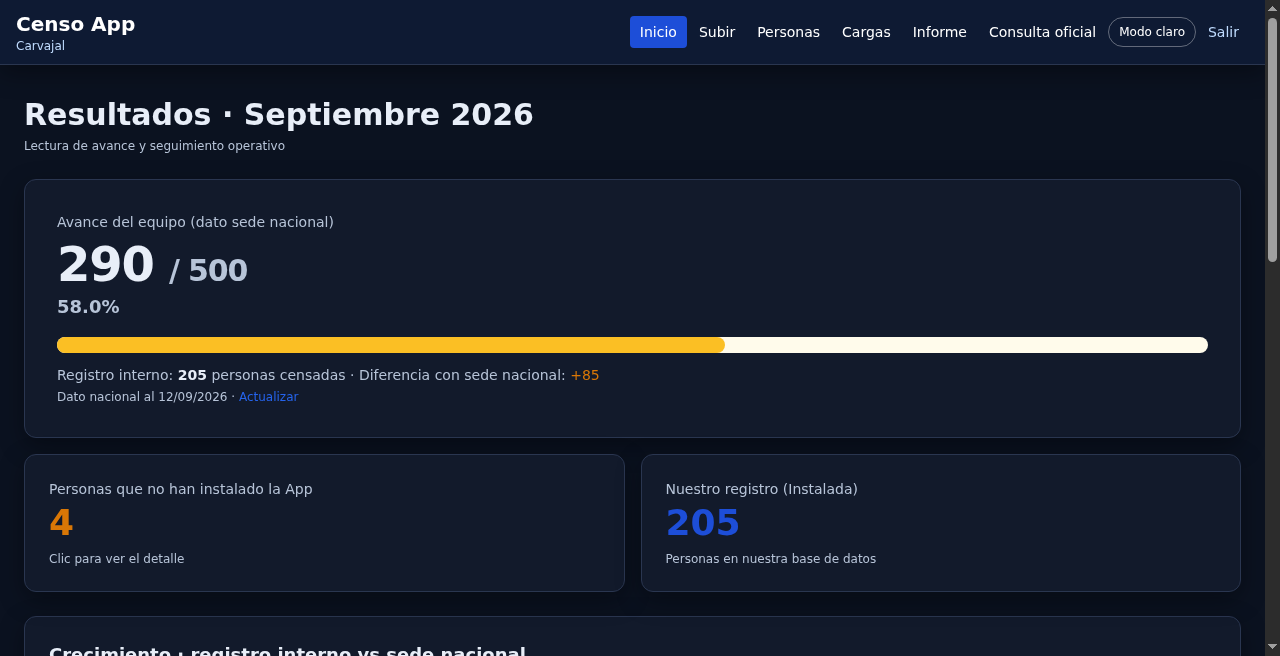
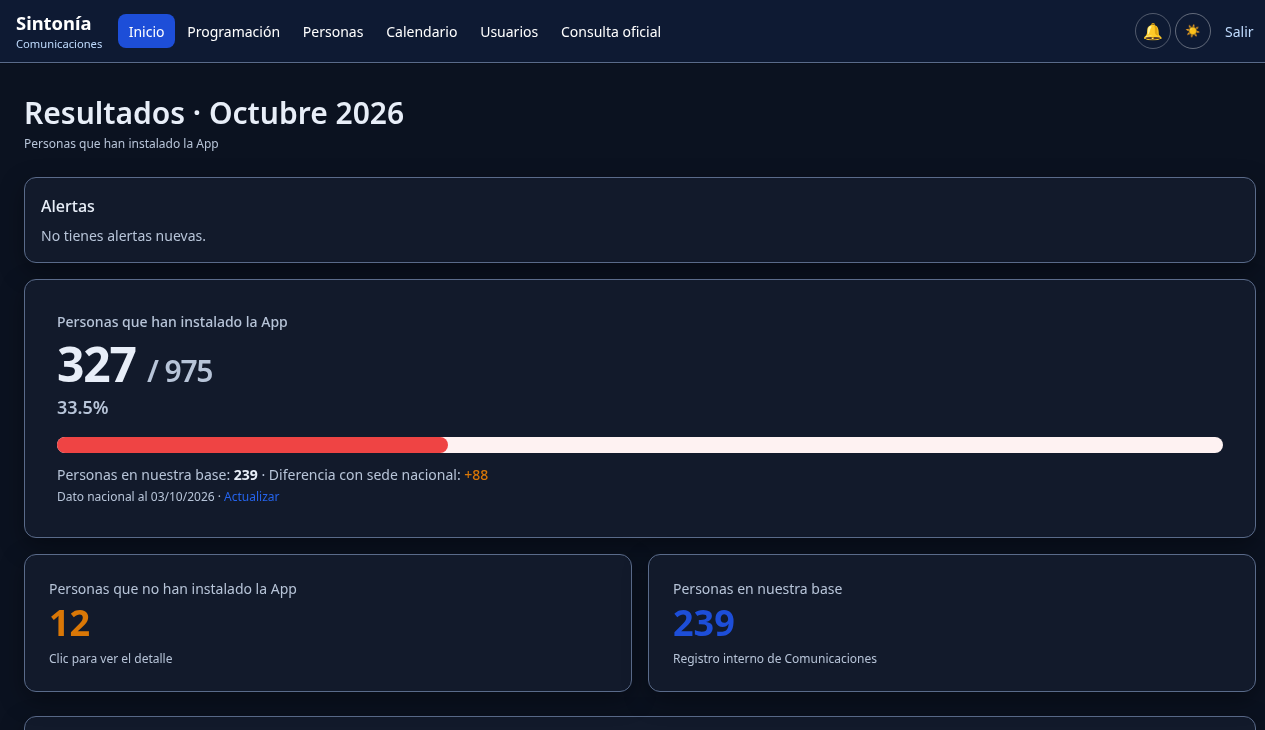
Update Sintonía case shots for Oct 2026 dark-mode UI
Replace hero and gallery images with approved growth chart,
resultados dashboard, and blurred programación WhatsApp card;
bump cache-bust to v=oct26 and hero aspect-ratio to 1232/605.

Changed region(s): [[0.0308, 0.0, 1.0, 1.0], [0.0, 0.122, 0.4316, 0.2439], [0.0, 0.0, 0.2158, 0.0915]]

diff --git a/src/styles/global.css b/src/styles/global.css
@@ -490,7 +490,7 @@ body.nav-open .nav-backdrop {
 .hero-product-media img {
   width: 100%;
   height: auto;
-  aspect-ratio: 1248 / 729;
+  aspect-ratio: 1232 / 605;
   object-fit: cover;
   object-position: center center;
 }
